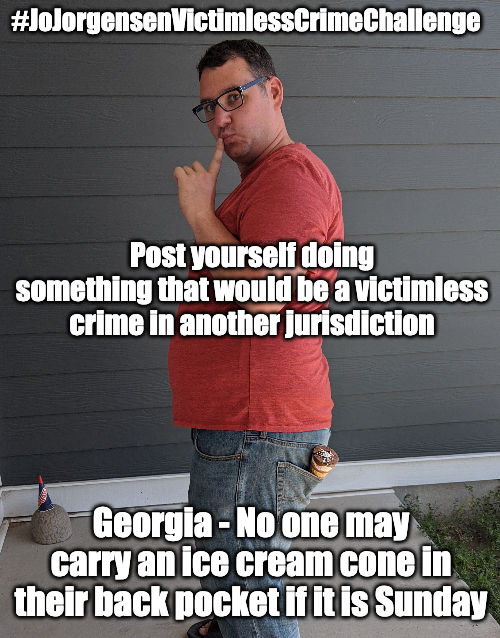
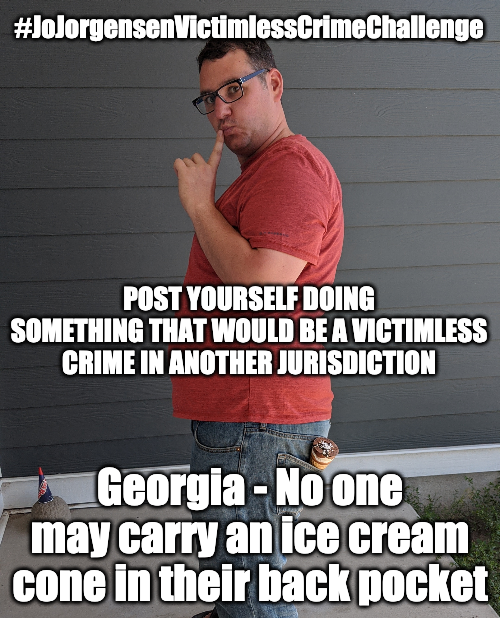
remove sunday from ice cream

diff --git a/index.html b/index.html
@@ -91,9 +91,9 @@
         <ul>
             <li><strong>California</strong> - Women are forbidden to drive while wearing a house coat </li>
             <li><strong>Connecticut</strong> - It's illegal for a barber to hum a tune while cutting your hair </li>
-            <li><strong>Georgia</strong> - No one may carry an ice cream cone in their back pocket if it is Sunday </li>
+            <li><strong>Georgia</strong> - No one may carry an ice cream cone in their back pocket</li>
             <li><strong>Hawaii</strong> - Coins are not allowed to be placed in one’s ears </li>
-            <li><strong>Utah<a href="https://le.utah.gov/xcode/Title41/Chapter6a/41-6a-S1112.html">41-6a-1112</a></strong> - You cannot ride a bike while holding something in one hand</li>
+            <li><strong>Utah <a href="https://le.utah.gov/xcode/Title41/Chapter6a/41-6a-S1112.html">41-6a-1112</a></strong> - You cannot ride a bike while holding something in one hand</li>
         </ul>
 
         <img src="meme_0.png">
